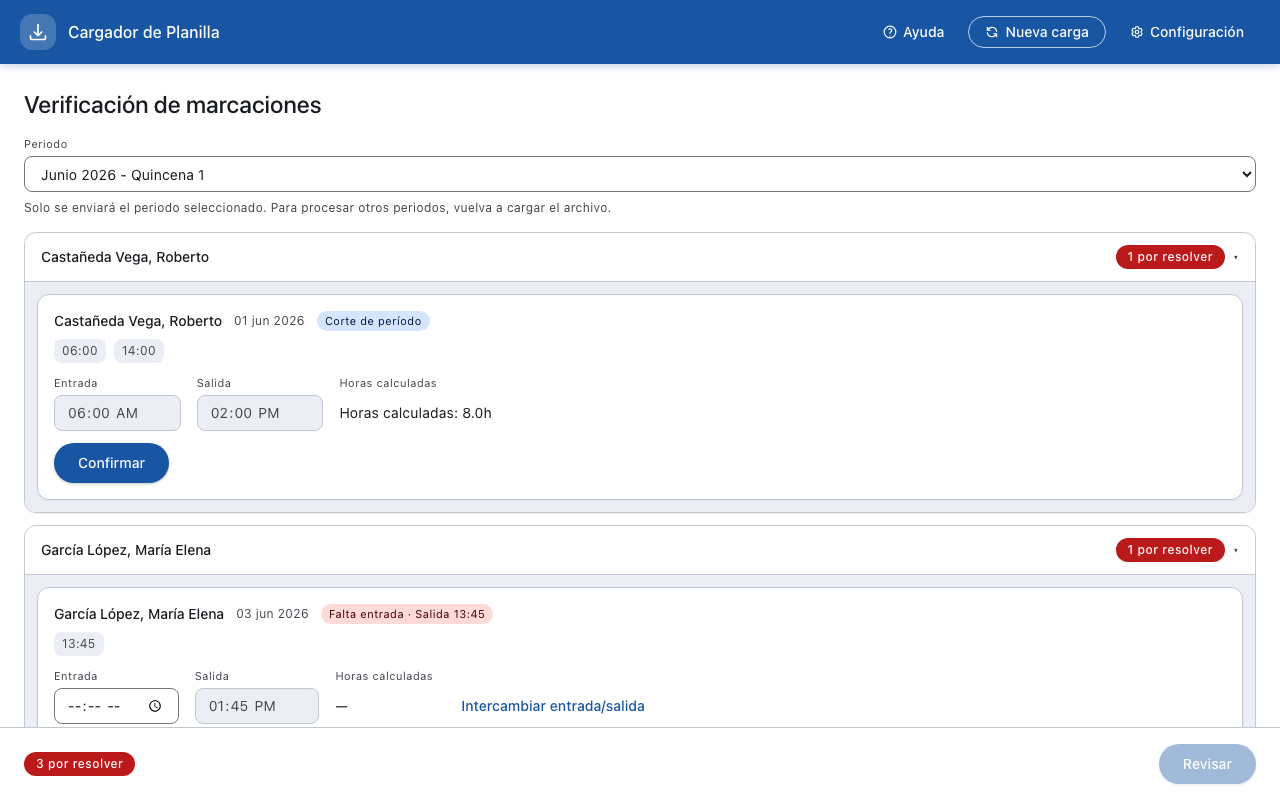
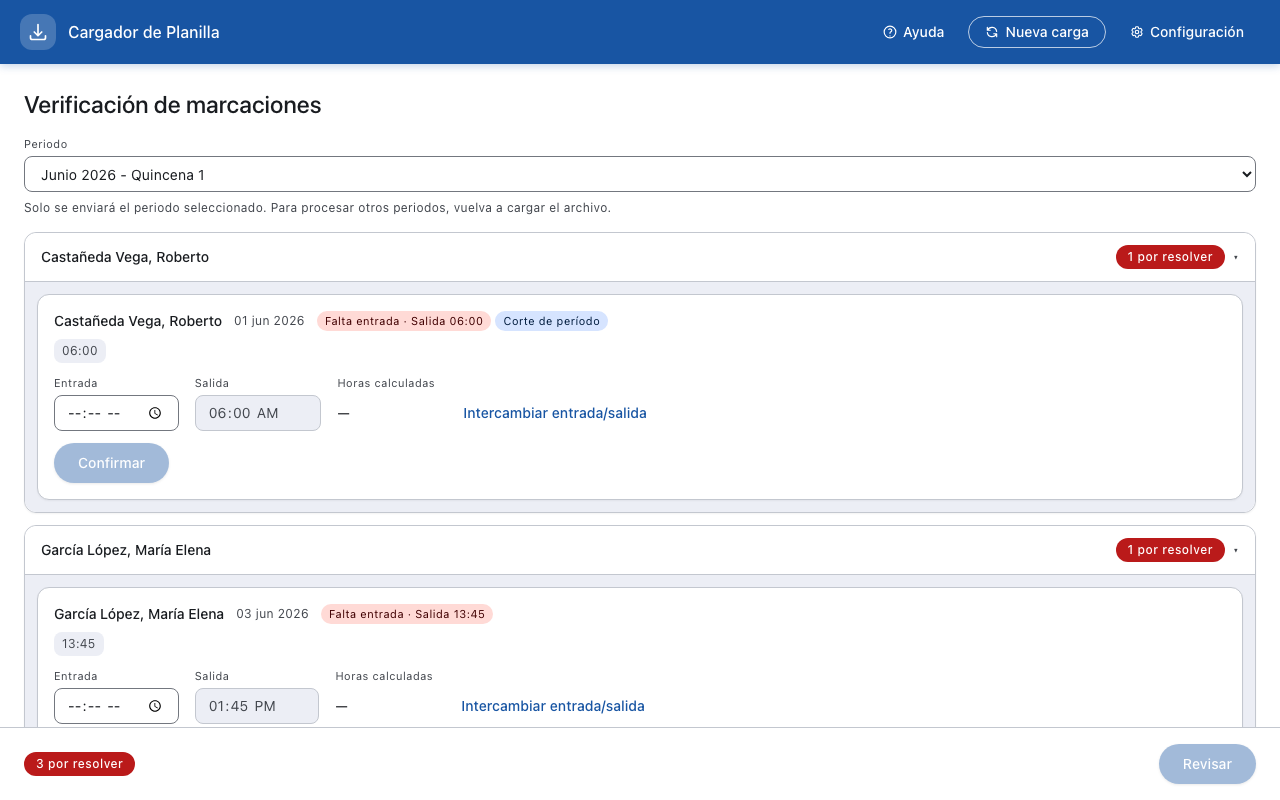
docs: realistic mocks for the cutoff and incomplete-quincena screens, accurate FAQ answers, and fictional employees in the smoke file, tests and doc examples
Claude-Session: https://claude.ai/code/session_01XaBjnFVNSFFrBqXtvrNwvF

Changed region(s): [[0.0312, 0.4688, 0.2188, 0.625], [0.25, 0.375, 0.4688, 0.4375], [0.25, 0.4688, 0.5, 0.5312]]

diff --git a/frontend/e2e/mock-data.ts b/frontend/e2e/mock-data.ts
@@ -127,12 +127,12 @@ export const FLAGGED_SHORT_DAY: TasSession = {
 
 export const FLAGGED_START_CUTOFF: TasSession = {
   sessionId: 7, employeeId: 'E006', employeeName: 'Castañeda Vega, Roberto',
-  date: '2026-06-01', scans: ['2026-06-01T06:00:00', '2026-06-01T14:00:00'],
-  matchedShiftId: 'shift-1', matchedShiftName: 'Mañana',
-  assignedShiftId: 'shift-1', assignedShiftName: 'Mañana',
-  effectiveStart: '2026-06-01T06:00:00', lastScan: '2026-06-01T14:00:00',
-  workedMinutes: 480, workedHours: 8, needsResolution: true,
-  flags: ['START_CUTOFF'],
+  date: '2026-06-01', scans: ['2026-06-01T06:00:00'],
+  matchedShiftId: 'shift-3', matchedShiftName: 'Noche',
+  assignedShiftId: 'shift-3', assignedShiftName: 'Noche', crossMidnight: true,
+  effectiveStart: null, lastScan: '2026-06-01T06:00:00',
+  workedMinutes: 0, workedHours: 0, needsResolution: true,
+  flags: ['MISSING_ENTRY', 'START_CUTOFF'],
 };
 
 export const FLAGGED_BEST_FIT: TasSession = {

diff --git a/frontend/e2e/capture-screenshots.spec.ts b/frontend/e2e/capture-screenshots.spec.ts
@@ -581,7 +581,8 @@ async function reviewWithIncompleteQuincena(page: Page) {
   await mockTasUpload(page, {
     ...mock.UPLOAD_RESULT_WITH_FLAGS,
     flaggedSessions: [],
-    resolvedRows: mock.RESOLVED_ROWS,
+    // The three missing working days count as not worked for everyone, as the banner says.
+    resolvedRows: mock.RESOLVED_ROWS.map(r => ({ ...r, diasNoLaborados: r.diasNoLaborados + 3 })),
     availablePeriods: [{ anio: 2026, mes: 6, numeroDequincena: 1 }],
     absentActiveEmployees: [],
   });

diff --git a/backend/src/test/java/com/planilla/backend/controller/TasControllerTest.java b/backend/src/test/java/com/planilla/backend/controller/TasControllerTest.java
@@ -3092,8 +3092,8 @@ class TasControllerTest {
     private List<TasSession> seedSingleScanDouble(String token) {
         TasSession morning = new TasSession();
         morning.setSessionId(1);
-        morning.setEmployeeId("296");
-        morning.setEmployeeName("Molina");
+        morning.setEmployeeId("128");
+        morning.setEmployeeName("Ramírez");
         morning.setDate(java.time.LocalDate.of(2026, 9, 29));
         morning.setEffectiveStart(java.time.LocalDateTime.of(2026, 9, 29, 7, 8));
         morning.setLastScan(java.time.LocalDateTime.of(2026, 9, 29, 7, 8));
@@ -3103,8 +3103,8 @@ class TasControllerTest {
         morning.setFlags(new ArrayList<>(List.of(TasFlag.SAME_DAY_DOUBLE, TasFlag.MISSING_EXIT)));
         TasSession evening = new TasSession();
         evening.setSessionId(2);
-        evening.setEmployeeId("296");
-        evening.setEmployeeName("Molina");
+        evening.setEmployeeId("128");
+        evening.setEmployeeName("Ramírez");
         evening.setDate(java.time.LocalDate.of(2026, 9, 29));
         evening.setEffectiveStart(java.time.LocalDateTime.of(2026, 9, 29, 22, 3));
         evening.setLastScan(java.time.LocalDateTime.of(2026, 9, 29, 22, 3));
@@ -3133,7 +3133,7 @@ class TasControllerTest {
 
     private static Map<String, Object> keep(Object keepSessionId) {
         Map<String, Object> res = new LinkedHashMap<>();
-        res.put("employeeId", "296");
+        res.put("employeeId", "128");
         res.put("date", "2026-09-29");
         res.put("keepSessionId", keepSessionId);
         return res;

diff --git a/docs/manual_usuario.md b/docs/manual_usuario.md
@@ -269,7 +269,7 @@ El sistema detectó dos sesiones de trabajo diferentes para el mismo empleado en
 - **Una de las sesiones**: se conserva esa marcación y debajo aparece su tarjeta para escribir la hora que falta. La otra se descarta.
 - **"Mantener todas"**: aparecen las dos tarjetas y debe completar ambas.
 
-![Doble marcación de marcaciones sueltas (07:08 y 22:03) con la opción "Una sola jornada" y las tarjetas para completar la hora que falta](screenshots/23-verification-double-single-scans.png)
+![Doble marcación de marcaciones sueltas (07:08 y 22:03): se ofrece "Una sola jornada", "Mantener todas" viene seleccionada y debajo están las tarjetas para completar la hora que falta](screenshots/23-verification-double-single-scans.png)
 
 Las horas se envían junto con la elección al pulsar **"Revisar"**, en un solo paso.
 
@@ -733,13 +733,17 @@ Para guardar los cambios, haga clic en **"Guardar cambios"**. Para revertirlos, 
 Sí. La aplicación detecta automáticamente los registros que ya fueron enviados previamente y los marca como "Duplicado". Los registros duplicados serán excluidos del envío — solo se enviarán los registros nuevos.
 
 **¿Qué pasa si cierro la aplicación durante el envío?**
-No cierre la aplicación durante el envío. Si lo hace por accidente, vuelva a abrir la aplicación y pulse **Continuar** en la tarjeta "Sesión sin terminar". Llegará a la revisión, donde los registros que ya se enviaron aparecerán como duplicados y no se volverán a enviar.
+No cierre la aplicación durante el envío. Si se cerró por accidente, vuelva a abrirla y mire la pantalla de inicio:
+
+- Si la tarjeta "Sesión sin terminar" dice *"Envío en curso, espere a que termine."*, el envío sigue en marcha. Espere: la tarjeta cambia sola cuando termina.
+- Si la tarjeta dice *"Envío parcial…"*, o aparece sin ningún aviso, pulse **Continuar**. Llegará a la revisión, donde los registros que ya llegaron a la base de datos aparecen como duplicados y no se vuelven a enviar.
+- Si no aparece la tarjeta, el envío terminó con todos los registros enviados.
 
 **¿Pierdo mi trabajo si la aplicación se cierra a mitad de la verificación?**
 No. El avance se guarda automáticamente. Al volver a abrir la aplicación, pulse **Continuar** en la tarjeta "Sesión sin terminar" (ver [Continuar una sesión sin terminar](#continuar-una-sesión-sin-terminar)).
 
 **¿Puedo editar las horas extras después de la verificación?**
-Sí. En la vista de lista y en la vista de detalle puede modificar las horas extras simples y dobles directamente. Los campos editados se resaltarán en amarillo para que sepa qué valores fueron ajustados manualmente.
+Sí. En la vista de lista y en la vista de detalle puede modificar las horas extras simples y dobles directamente. Los valores ajustados se distinguen: en la vista de lista con un borde azul y el valor original entre paréntesis (por ejemplo, "era 3"); en la vista de detalle, en amarillo.
 
 **¿Qué hago si el archivo abarca dos quincenas?**
 Cuando el archivo TAS contiene marcaciones de más de una quincena, la aplicación le mostrará un selector de período en la pantalla de verificación. Seleccione la quincena que desea procesar. Para procesar la otra quincena, deberá volver a cargar el archivo y seleccionar el otro período.

diff --git a/docs/csv-mapping.md b/docs/csv-mapping.md
@@ -28,14 +28,14 @@ Identifies the start of a new employee block.
 
 **Example:**
 ```
-Empleado,3,"DIEGUEZ EQUITE ,JOSE ARMANDO",3,,,,,,,,,,,,,,,,,,,,,,,,,,
+Empleado,128,"RAMIREZ SOTO ,TOMAS ANDRES",128,,,,,,,,,,,,,,,,,,,,,,,,,,
 ```
 
 **Fields extracted:**
 | Column Index | Value | Maps To |
 |---|---|---|
-| 1 | `3` | `codigo_empleado` |
-| 2 | `"DIEGUEZ EQUITE ,JOSE ARMANDO"` | Employee name (display only, not sent to DB) |
+| 1 | `128` | `codigo_empleado` |
+| 2 | `"RAMIREZ SOTO ,TOMAS ANDRES"` | Employee name (display only, not sent to DB) |
 
 ---
 

diff --git a/docs/smoke-tests/GUIA-SMOKE-TESTS.md b/docs/smoke-tests/GUIA-SMOKE-TESTS.md
@@ -813,7 +813,7 @@ Verifica que la media hora de overtime (30 min) produce `0.5` y no se trunca a e
 
 ## 28 — Doble marcación de marcaciones sueltas
 **Archivo:** `28-same-day-double-single-scans.csv`
-**Empleado:** Molina Mauro (ID 296)
+**Empleado:** Ramírez Tomás (ID 128)
 **Turno asignado:** Mañana (07:00–15:00)
 
 ### Flujo esperado
